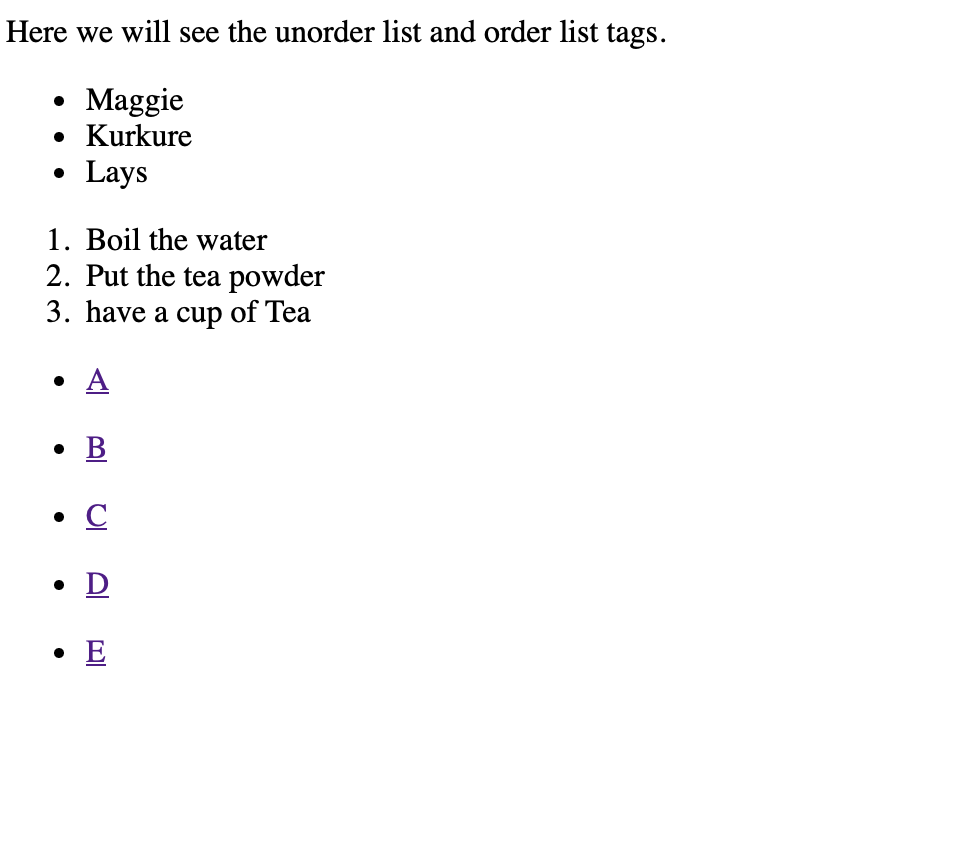
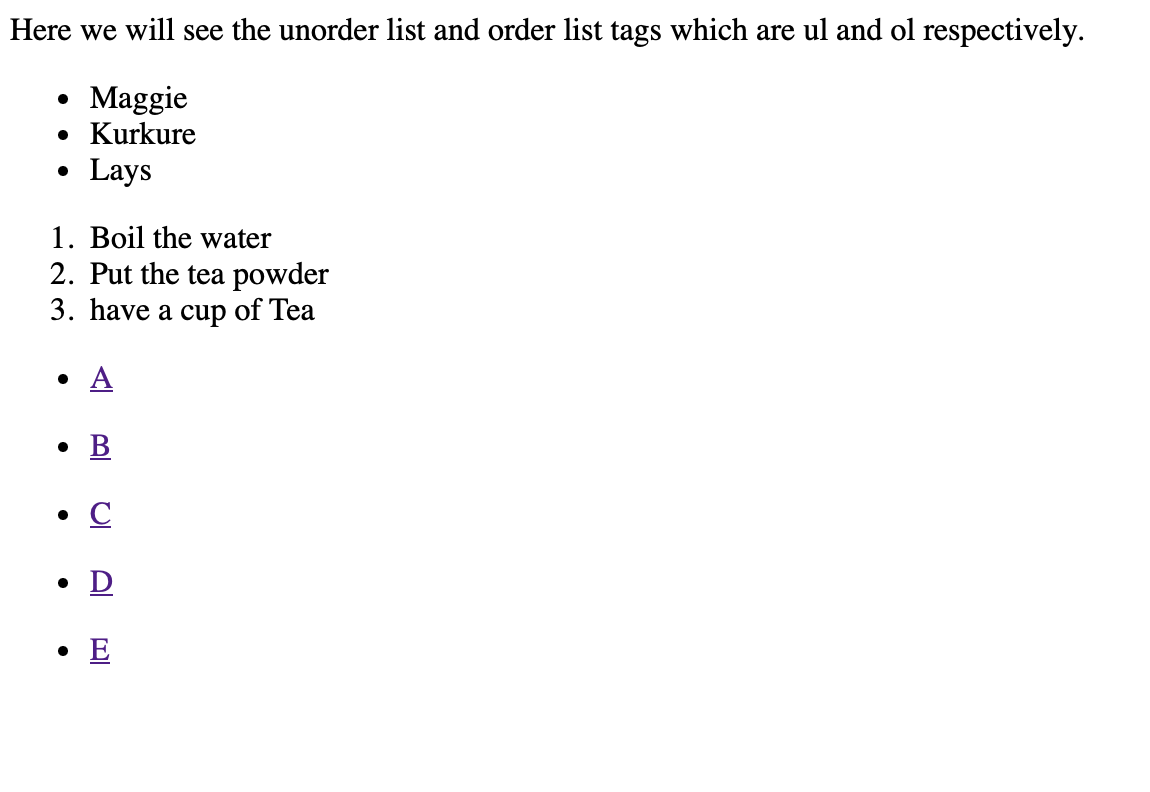
orderAndUnorderList.html

diff --git a/orderAndUnorderList/orderAndUnorderList.html b/orderAndUnorderList/orderAndUnorderList.html
@@ -3,33 +3,40 @@
 <html>
     
     <head>
-        Here we will see the unorder list and order list tags.
+
+        Here we will see the unorder list and order list tags which are ul and ol respectively.
+        
     </head>
 
     <body>
 
         <ul>                            <!-- Bydefault it will show in output with dots(.) as bullet points. -->
+
             <li>Maggie</li>             <!-- Here in the unorder list we can write the contents without any order , means we can change the order later also. -->
             <li>Kurkure</li>            <!-- Here for shortcut we can create these 3 li tags with only "li*3". -->
             <li>Lays</li>               <!-- This whole structure can be create with "ul>li*3". -->
+
         </ul>
                                         <!-- The significance of these tag is in semantics , that's why it has been called as semantics tag. -->
 
         <ol>                            <!-- Bydefault it will show in output with numerical value starting with (1) as bullet points. -->
+
             <li>Boil the water</li>     <!-- Here in the order list we have to follow the contents pattern , means we can not change the order later. -->
             <li>Put the tea powder</li> <!-- Here for shortcut we can create these 3 li tags with only "li*3". -->
             <li>have a cup of Tea</li>  <!-- This whole structure can be create with "ol>li*3". -->
+
         </ol>
                                         <!-- So we can say this , there is a meaning exist of this order list tag , it helps to increase readability. -->
 
                                         <!-- For multiple structure of unorder list or order list we can write "(ul>li*3)*4" OR "(ol>li*3)*7". --> 
 
         <ul>                            <!-- This whole structure can be created by doing emmet shortcut ul>(li>p>a)*5. -->
+
             <li>
                 <p><a href="">A</a></p> <!-- This is the hyperlink that's why it is showing in blue colour. -->
             </li>
             <li>
-                <p><a href="">B</a></p>
+                <p><a href="">B</a></p> <!-- So all these A , B , C , D and E will display as blue colour. -->
             </li>
             <li>
                 <p><a href="">C</a></p>
@@ -40,9 +47,8 @@
             <li>
                 <p><a href="">E</a></p>
             </li>
+
         </ul>
-
-
 
     </body>
     
